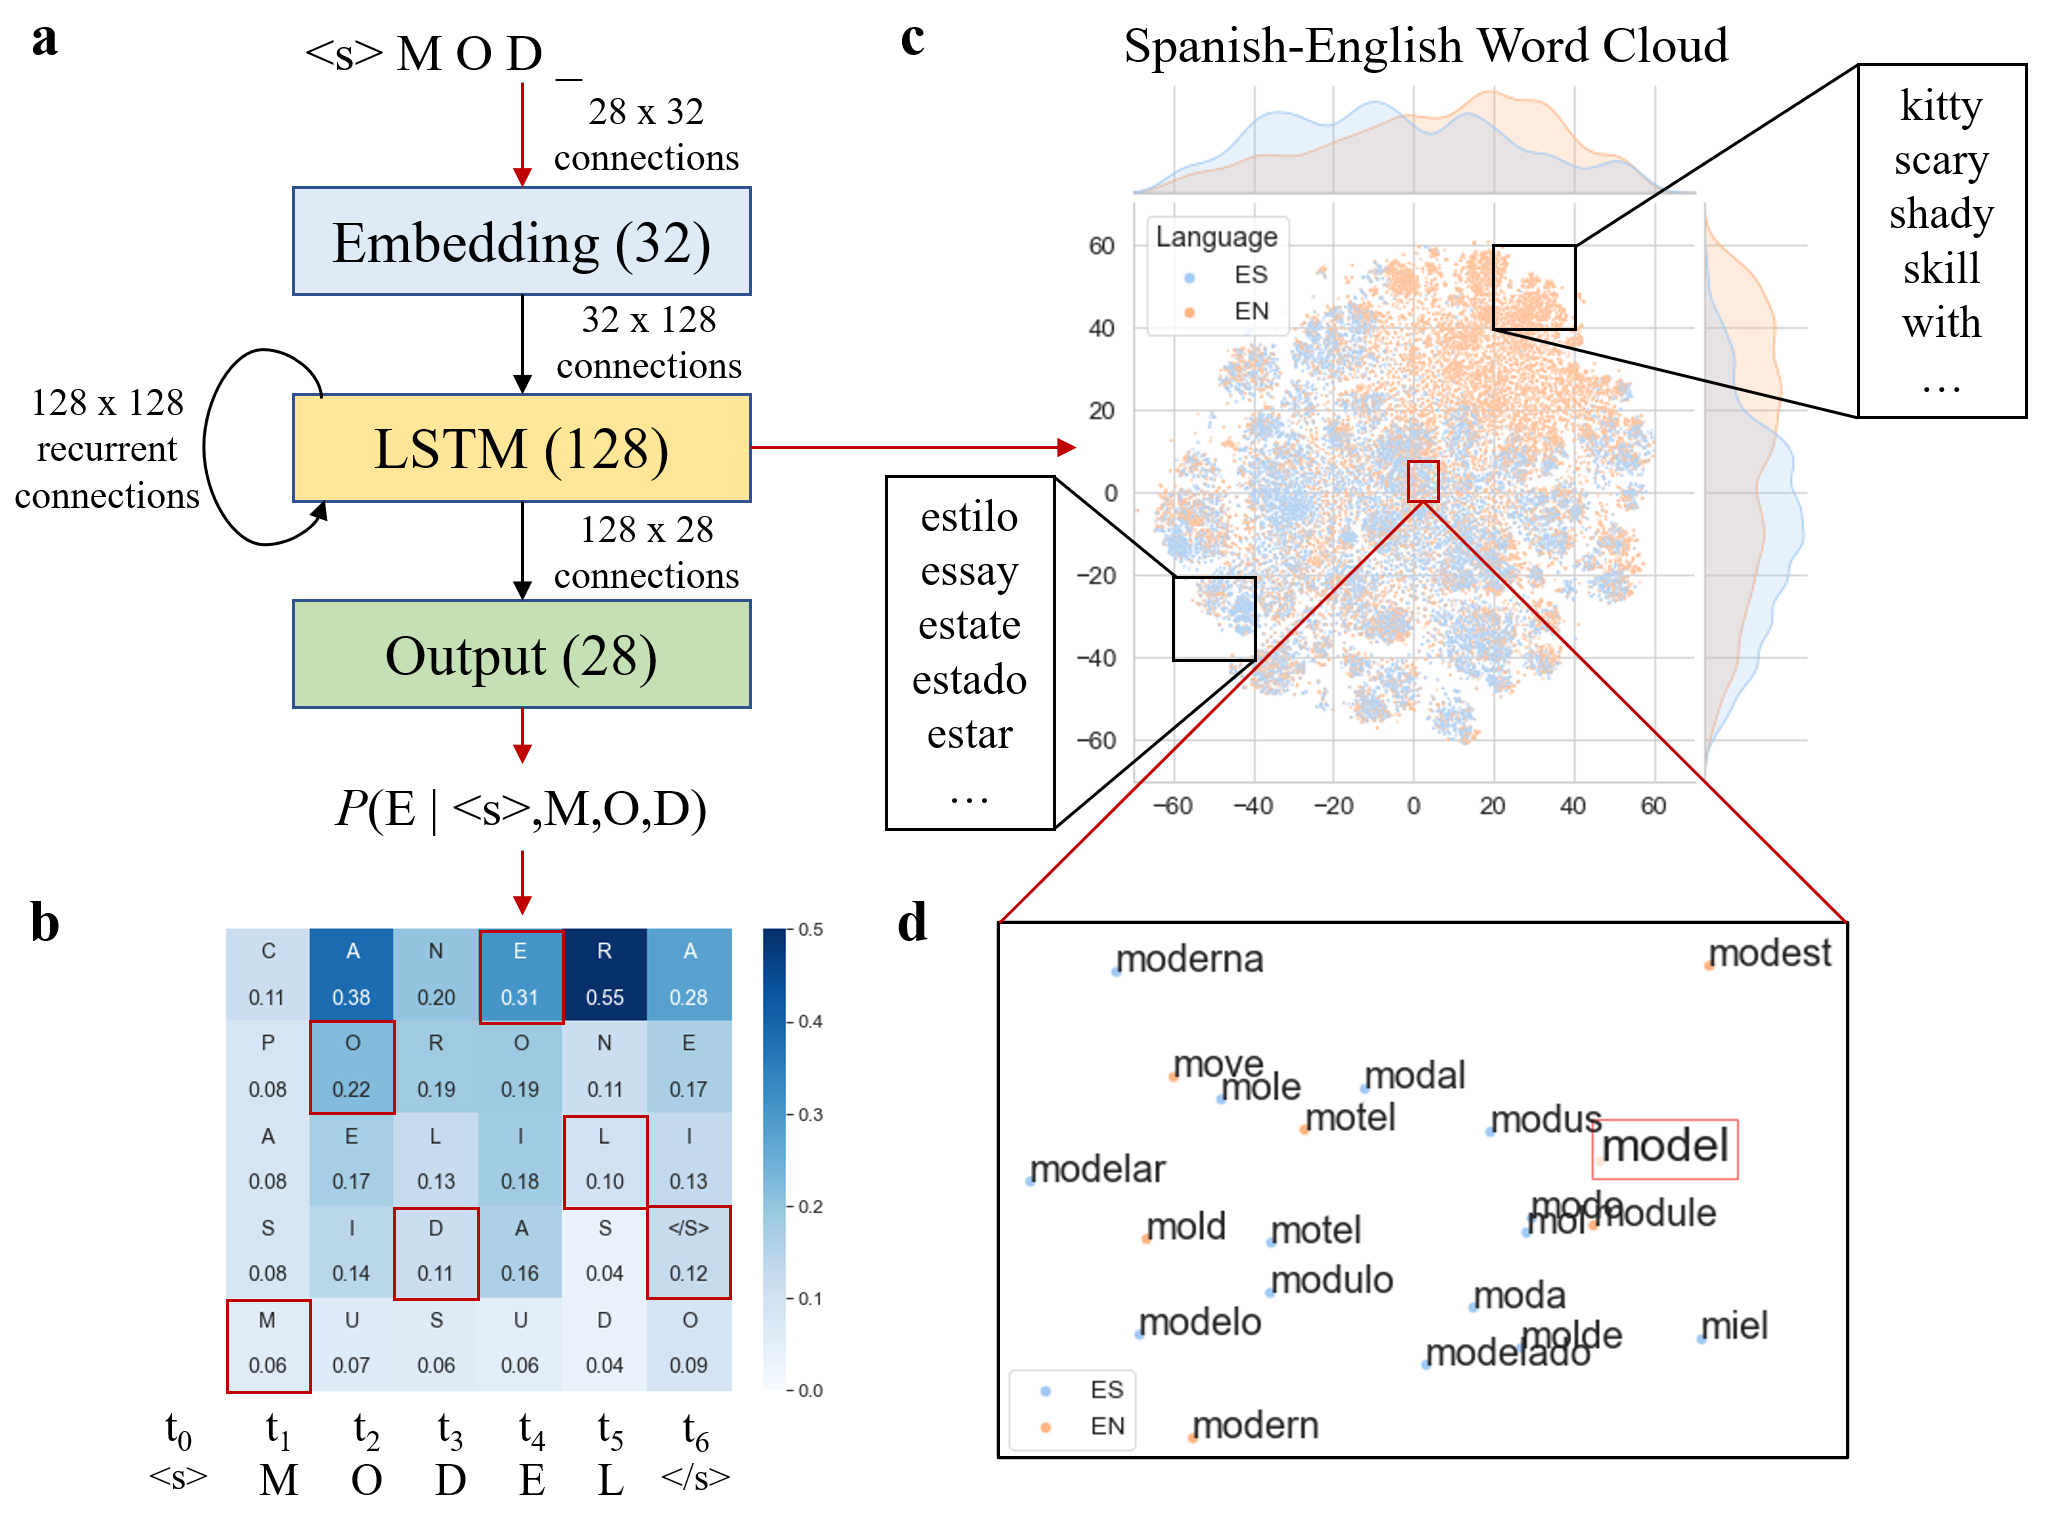
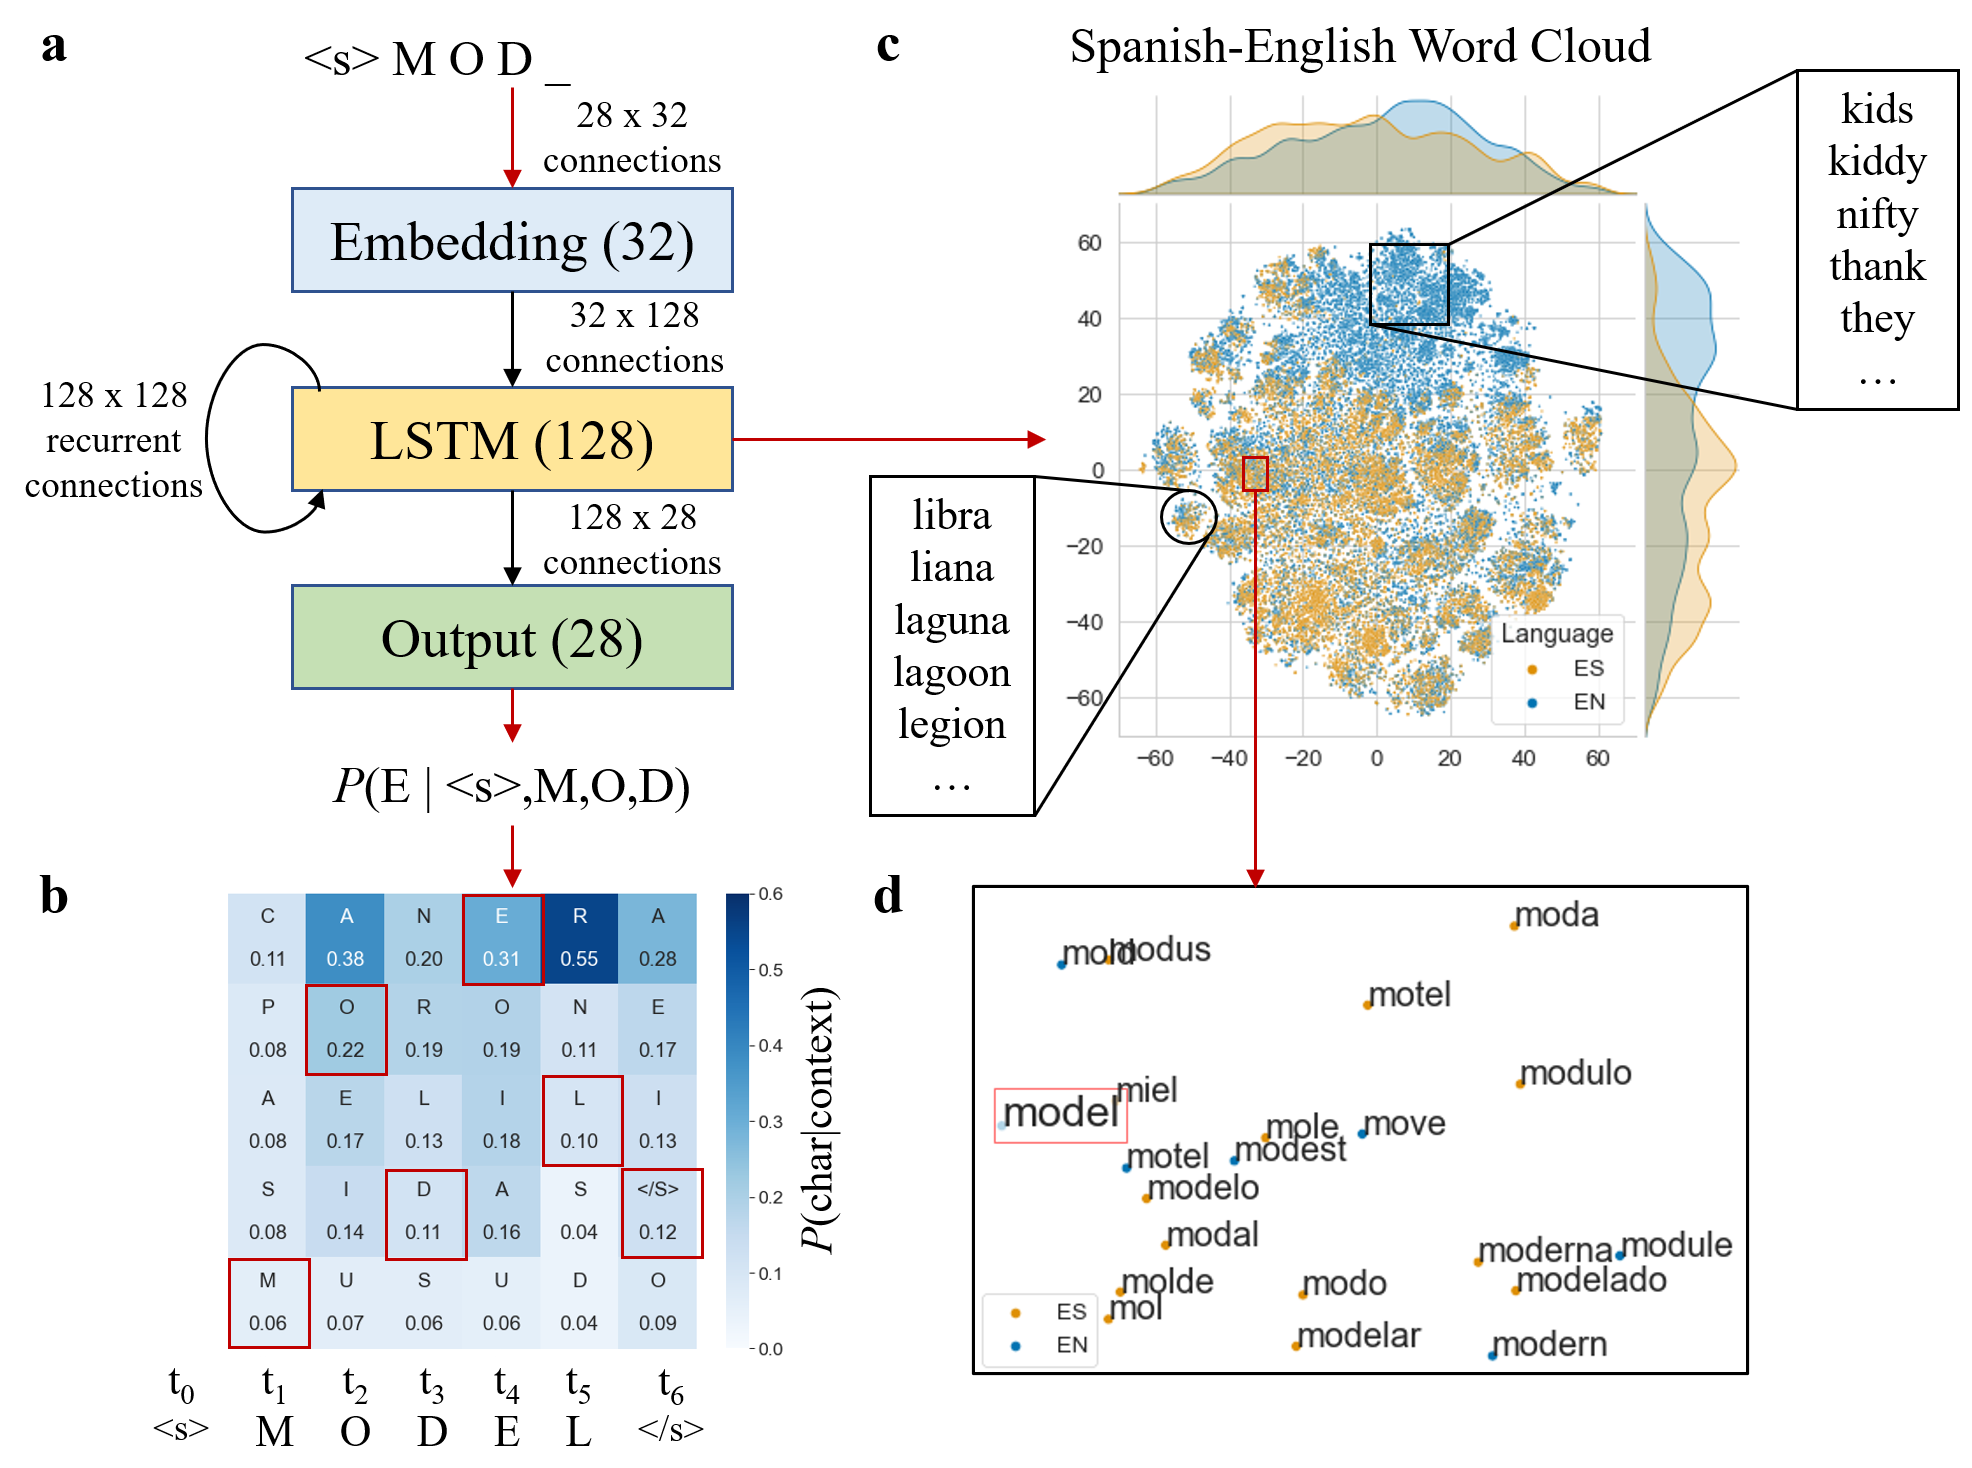
Current working version

diff --git a/supplementary_plots.py b/supplementary_plots.py
@@ -27,6 +27,7 @@ import numpy as np
 import utils
 import torch
 import pandas as pd
+import scipy.cluster.hierarchy as sch
 pd.options.mode.chained_assignment = None  # default='warn'
 
 
@@ -65,7 +66,7 @@ args = Namespace(
 utils.set_all_seeds(args.seed, args.device)
 
 
-# %% SUPPLEMENTARY FIGURE 1
+# %% SUPPLEMENTARY FIGURE 2
 
 # Similarity of word representations to each language
 hidd_cols = [f"hid_{str(i+1)}" for i in range(args.hidden_dims)]
@@ -197,7 +198,7 @@ plt.show()
 
 #similarities.to_csv('results/backup_supplementary_similarities.csv', index=False, encoding='utf-8')
 
-# %% SUPPLEMENTARY FIGURE 2
+# %% SUPPLEMENTARY FIGURE 3
 sns.set(style='whitegrid', context='paper',
         palette='colorblind', font_scale=1.5)
 
@@ -438,3 +439,106 @@ plt.ylim((0, 1.))
 plt.show()
 
 #simil.to_csv('results/backup_similarities.csv', index=False, encoding='utf-8')
+
+#%% SUPPLEMENTARY FIGURE X
+sns.set(style='whitegrid', context='paper',
+        palette='colorblind', font_scale=1.5)
+
+
+# Similarity of letters in Embedding layer
+
+letters = list(ascii_lowercase) + ['<s>']
+
+
+d = {} 
+# 'MONO': np.zeros((28, 28)),
+# 'ES-EN': np.zeros((28, 28)),
+# 'ES-EU': np.zeros((28, 28))
+
+for data, category in zip(args.datafiles, args.modelfiles):
+    for prob in args.probs:
+        if prob == 100 and category == 'ESEU':
+            continue
+        
+        end = f"{prob:02}-{100-prob:02}"
+        m_name = f"{category}_{end}"
+        
+        if "100-00" in m_name:
+            cat = 'MONO'
+        elif "ESEN" in m_name:
+            cat = 'ES-EN'
+        else:
+            cat = 'ES-EU'
+        
+        d[cat] = {}
+        
+        for run in range(args.n_runs):
+            print(f"\n{data}: {m_name}_{run}\n")
+            model = torch.load(args.model_save_file +
+                               f"{m_name}/{m_name}_{run}_threshold_val_35.pt")
+            model.to(args.device)
+            model.eval()
+            
+            d[cat][run] = model.E.weight.detach().to('cpu').numpy()[:-2, :]
+        
+        simil = cosine_similarity(d[cat][0], d[cat][0])
+        
+        plt.figure(figsize=(8,6))
+        g = sns.heatmap(np.tril(simil), yticklabels=letters, xticklabels=letters, 
+                        cmap='vlag',
+                        vmin=-1, vmax=1)
+        g.set(title=cat)
+        plt.yticks(rotation=0)
+        plt.xticks(rotation=0)
+        plt.show()
+        
+#%% 
+sns.set(style='white', context='paper',
+        palette='colorblind', font_scale=1.5)        
+      
+        
+cats = ['ES-EN', 'ES-EU', 'MONO']
+
+dat = pd.DataFrame()
+
+for i,c in enumerate(cats):
+    # plt.figure(figsize=(8,6))
+    # plt.title(c)
+    # ax = sch.dendrogram(sch.linkage(d[c], method='ward'), labels=letters,
+    #                     leaf_rotation=0, leaf_font_size=12, orientation='left')
+    # plt.show()
+    
+    # dt = d[c]
+    # cluster = AgglomerativeClustering(n_clusters=5, affinity='cosine', linkage='average')
+    # cluster.fit(d[c])
+    tsne = PCA(n_components=2)#, perplexity=100, n_jobs=-1, random_state=args.seed-i)
+    dt = tsne.fit_transform(d[c][0])
+    data = pd.DataFrame({'x':dt[:, 0], 'y':dt[:, 1], 'val':letters, 'cat':c})
+    dat = pd.concat([dat, data], axis=0, ignore_index=True)
+    
+dat['hue'] = dat['cat'].map({'ES-EN':0, 'ES-EU':2, 'MONO':1})
+
+plt.figure(figsize=(12,10))
+ax = sns.scatterplot('x', 'y', hue='cat', data=dat, palette=['C0', 'C2', 'C1'],
+                     s=0, legend=True)
+pal = sns.color_palette('colorblind').as_hex()
+for i, point in dat.iterrows():
+    ax.text(point['x'], point['y'], str(point['val']), fontsize=20, color=pal[point['hue']])  
+plt.show()
+    
+#%%        
+# Plot contrasts
+from itertools import combinations
+
+cats = ['ES-EN', 'ES-EU', 'MONO']
+
+for cmb in combinations(cats, 2):
+    sim = d[cmb[0]] - d[cmb[1]]
+    
+    plt.figure(figsize=(8,6))
+    g = sns.heatmap(sim, yticklabels=letters,
+                    cmap='vlag', vmin=-1, vmax=1)
+    g.set(title=cmb)
+    plt.show()
+    
+    

diff --git a/eval.py b/eval.py
@@ -20,7 +20,7 @@ import torch.nn.functional as F
 # Plotting
 import matplotlib.pyplot as plt
 import seaborn as sns
-sns.set(style='whitegrid', context='paper', palette='colorblind', font_scale=1.5)
+sns.set(style='whitegrid', context='paper', palette='Greys', font_scale=1.5)
 
 # Misc
 from argparse import Namespace
@@ -118,6 +118,8 @@ sns.heatmap(data=tmp, cmap='Blues', annot=annot, fmt='',
             vmin=0., vmax=0.6)
 
 #%% Plot word CLOUD
+sns.set(style='whitegrid', context='paper', palette='colorblind', font_scale=1.5)
+
 hidd_cols = [f"hid_{i+1}" for i in range(model.rnn.hidden_size)]
 
 hidden_file = model_file.split('/')[-1].split('.')[0]
@@ -188,9 +190,9 @@ del pca_res, tmp
 
 # Plot the entire dataset
 ax = sns.jointplot(x='dim1', y='dim2', kind='scatter',
-                   hue='Language', hue_order=['ES', 'EN'], palette=['C1', 'C0'],
-                   data=df, alpha=0.8, space=0.1,
-                   xlim=(-70, 70), ylim=(-70, 70), s=2)
+                   hue='Language', hue_order=['ES', 'EN'],
+                   data=df, alpha=0.8, space=0.1, palette='colorblind',
+                   xlim=(-70, 70), ylim=(-70, 70), s=2, markers=['o', 'x'])
 plt.show()
 
 list1 = [x for x in list(print_from(df, 'Word', 0, 20, 40, 60)) if len(x) < 6]
@@ -436,8 +438,8 @@ for ch in range(readout.char.max() + 1):
 sns.set(style='whitegrid', context='paper', palette='colorblind', font_scale=2)
 
 g = sns.catplot(x='char', y='AUROC', hue='Version', hue_order=['MONO', 'ES-EN', 'ES-EU'],
-                col='dataset', palette=['C1', 'C0', 'C2'],
-                data=readout, kind='point', ci=99)
+                col='dataset', palette=['C1', 'C0', 'C2'], markers=['o', 'x', '*'],
+                data=readout, kind='point', ci=99, scale=1.2)
 g.set(ylim=(0.49, 1.))
 g.axes.flatten()[0].fill([2.5, 8.5, 8.5, 2.5], [0.4,0.4,1,1], 'k', alpha=0.2)
 g.axes.flatten()[0].fill([9.5, 10.5, 10.5, 9.5], [0.4,0.4,1,1], 'k', alpha=0.2)
@@ -447,4 +449,3 @@ g.axes.flatten()[0].set_title('Spanish-English')
 g.axes.flatten()[1].set_title('Spanish-Basque')
 g.axes.flatten()[0].set_xlabel('Character (time-step)')
 g.axes.flatten()[1].set_xlabel('Character (time-step)')
-

diff --git a/utils.py b/utils.py
@@ -2,7 +2,7 @@
 """
 Classes and functions to handle input data for PyTorch models
 
-Data handling classes are heavily inspired from Rao, D., & McMahan, B. (2019). 
+Data handling classes draw heavily from Rao, D., & McMahan, B. (2019). 
 Natural Language Processing with PyTorch. O'Reilly.
 https://github.com/joosthub/PyTorchNLPBook
 
@@ -28,16 +28,25 @@ from torch.utils.data import Dataset
 # %% Helper functions
 
 
+
 def set_all_seeds(seed, device):
-    """Simultaneously set all seeds from numpy and PyTorch"""
+    """Simultaneously set all seeds from numpy and PyTorch
+    
+    Args:
+        seed (int): seed number
+        device (torch.device): device to send tensors (for GPU computing)
+    """
     np.random.seed(seed)
     torch.manual_seed(seed)
     if device == torch.device('cuda:0'):
         torch.cuda.manual_seed_all(seed)
 
 
-def generate_batches(dataset, batch_size, shuffle=True,
-                     drop_last=True, device="cpu"):
+def generate_batches(dataset,
+                     batch_size, 
+                     shuffle=True,
+                     drop_last=True,
+                     device=torch.device("cpu")):
     """
     Generator function wrapping PyTorch's DataLoader
 
@@ -65,7 +74,12 @@ def generate_batches(dataset, batch_size, shuffle=True,
         yield out_data_dict
 
 
-def make_train_state(save_file=''):
+def make_train_state(save_file):
+    """Initializes history state dictionary
+    
+    Args:
+        save_file (str): path to save directory
+    """
     return {
         'epoch_idx': 0,
         'model_save_file': save_file,
